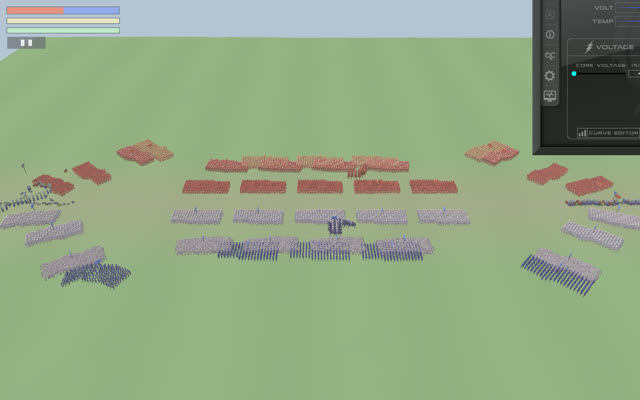
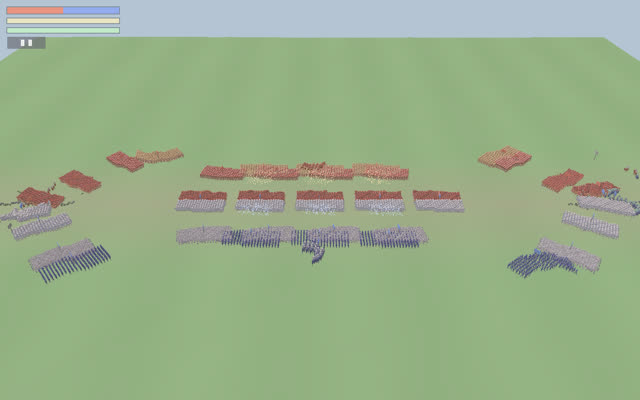
feat(demos): $SIEGE_POP boot override + packed max-population thumbnails
Follow-up to the index thumbnails: the siege/battle shots looked sparse at the
500-a-side default. Redo them at the slider ceiling.

- siege_sim: `default_per_faction()` reads `$SIEGE_POP` (clamped 20..=10000, the
  slider / `[ ]` ceiling), mirroring formations' `$FORM_POP`. Both siege binaries
  boot from it, so you can drop straight into a 10000-a-side field.
- siege (macroquad) SHOT gate is now wall-clock (`get_time() > 10s`) instead of a
  frame count — at 20000 units, vsync-off frame 120 arrived before the armies had
  marched; 10s of sim lands a real clash around the volcano.
- Recaptured siege / siege_wgpu at 10000/side and formations at 4000/side (its
  ceiling) — the cards now show packed battles, not a handful of specks.

diff --git a/crates/vectorial-hash-demos/src/bin/siege_wgpu.rs b/crates/vectorial-hash-demos/src/bin/siege_wgpu.rs
@@ -42,7 +42,7 @@ use vectorial_hash_demos::siege_sim::model_for;
 #[cfg(target_arch = "wasm32")]
 use vectorial_hash_demos::siege_sim::SIEGE_MODEL_FILES;
 use vectorial_hash_demos::siege_sim::{
-    apply, decide, default_body_radius, faction_tint, forest_trees, ground_height, model_file, set_map_seed,
+    apply, decide, default_body_radius, default_per_faction, faction_tint, forest_trees, ground_height, model_file, set_map_seed,
     spawn_army, sync_index, terrain_height, terrain_surface, volcano_step, Craters, Faction, Fx, FxKind, IUnit,
     Kind, ProjKind, Projectile, Puff, Rng, SepTables, Unit, Volcano, ANIM_FRAMES, MOVE_PREFS,
     PER_FACTION, SKY, WORLD,
@@ -611,7 +611,7 @@ impl State {
         let seed = std::env::var("SIEGE_SEED").ok().and_then(|s| s.parse::<u64>().ok()).unwrap_or(0x51E6E);
         set_map_seed((seed % 100_000) as f64 * 0.01);
         let mut rng = Rng::new(seed | 1);
-        let pop = PER_FACTION;
+        let pop = default_per_faction();
         let units = spawn_army(&mut rng, pop);
         let index = Tree3::<IUnit>::new(Aabb::new(0.0, 0.0, 0.0, WORLD, SKY, WORLD), 8);
         // Live rayon pool for the parallel decide pass (the thread slider). Native

diff --git a/crates/vectorial-hash-demos/src/bin/siege.rs b/crates/vectorial-hash-demos/src/bin/siege.rs
@@ -280,7 +280,7 @@ async fn main() {
         .unwrap_or_else(|| (macroquad::miniquad::date::now() * 1000.0) as u64);
     set_map_seed((seed % 100_000) as f64 * 0.01);
     let mut rng = Rng::new(seed | 1);
-    let mut per_faction = PER_FACTION; // live army size per side (population slider)
+    let mut per_faction = default_per_faction(); // live army size per side (population slider; $SIEGE_POP boot override)
     let mut cur_pop = per_faction;
     let mut pop_drag = false;
     let mut units = spawn_army(&mut rng, per_faction);
@@ -633,7 +633,7 @@ async fn main() {
         );
         if paused { draw_text("PAUSED", screen_width() * 0.5 - 50.0, 40.0, 36.0, YELLOW); }
 
-        if let Some(p) = std::env::var_os("SHOT") { if frame_no >= 120 && screen_width() > 200.0 { let _ = get_screen_data().export_png(&p.to_string_lossy()); std::process::exit(0); } }
+        if let Some(p) = std::env::var_os("SHOT") { if get_time() > 10.0 && screen_width() > 200.0 { let _ = get_screen_data().export_png(&p.to_string_lossy()); std::process::exit(0); } }
         next_frame().await;
         frame_no += 1;
         if let Some(m) = max_frames { if frame_no >= m { break; } }

diff --git a/crates/vectorial-hash-demos/src/siege_sim.rs b/crates/vectorial-hash-demos/src/siege_sim.rs
@@ -42,6 +42,12 @@ fn reynolds_blend() -> f64 {
 pub const WORLD: f64 = 800.0; // battlefield is WORLD × WORLD in the ground plane
 pub const SKY: f64 = 260.0; // index height — heights reach ~150, the dragon flies
 pub const PER_FACTION: usize = 500; // units each side spawns with (tunable live)
+/// Initial army size **per side** — override with `$SIEGE_POP` (clamped to the
+/// slider / `[ ]` ceiling of 10000). Lets the demos boot straight into a packed
+/// field instead of the 500-a-side default. Mirrors formations' `$FORM_POP`.
+pub fn default_per_faction() -> usize {
+    std::env::var("SIEGE_POP").ok().and_then(|s| s.parse().ok()).unwrap_or(PER_FACTION).clamp(20, 10_000)
+}
 pub const ATK_ANIM_LEN: f32 = 0.45; // attack-clip / lunge play window (seconds)
 pub const LAVA_DPS: f64 = 45.0; // damage per second to a ground unit standing in lava
 pub const WATER_LEVEL: f64 = 6.0; // terrain below this is water (units wade slowly)
